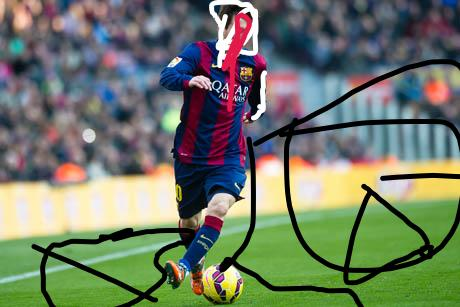
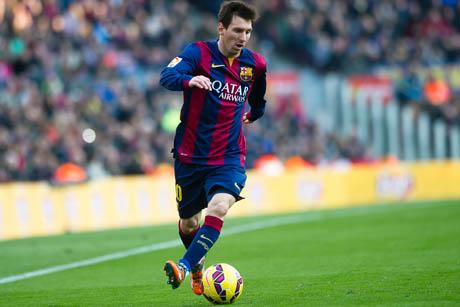
resize the rect parameter

diff --git a/grabcut-opencv.py b/grabcut-opencv.py
@@ -7,12 +7,12 @@ img = cv.imread('input.jpg')
 mask = np.zeros(img.shape[:2], np.uint8)
 
 # color no change
-#img = cv.cvtColor(img, cv.COLOR_BGR2RGB)
+img = cv.cvtColor(img, cv.COLOR_BGR2RGB)
 
 bgdModel = np.zeros((1,65), np.float64)
 fgdModel = np.zeros((1,65), np.float64)
 
-rect = (50, 50, 450, 290)
+rect = (160, 0, 110, 400)
 cv.grabCut(img, mask,rect, bgdModel, fgdModel, 5, cv.GC_INIT_WITH_RECT)
 
 mask2 = np.where((mask==2)|(mask==0), 0, 1).astype('uint8')
